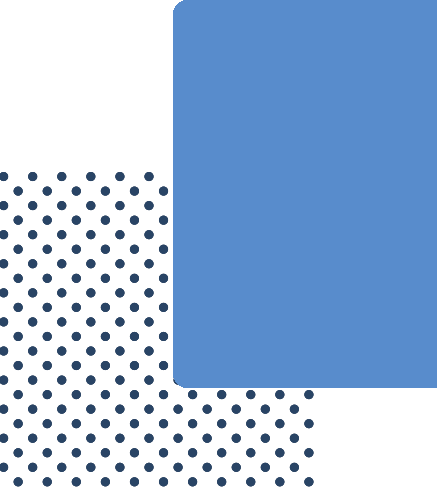
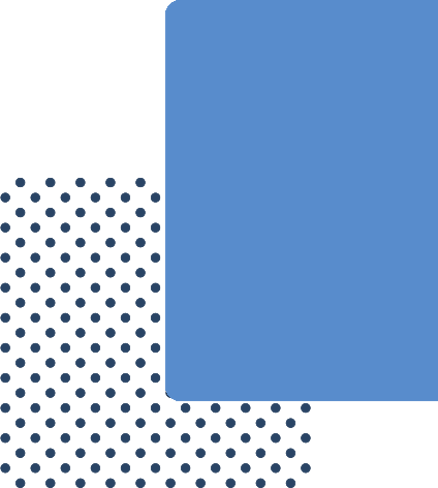
Project complete alfa 1.9

Changed region(s): [[0.0, 0.0, 1.0, 1.0], [0.0, 0.8932, 0.0297, 0.924]]

diff --git a/src/App.css b/src/App.css
@@ -79,7 +79,7 @@ body{
   font-size: 18px;
   font-family: 'the bold font';
   color: var(--dark-blue);
-  min-width: 145px;
+  min-width: 150px;
 }
 .topBar__logo{
   display: none;
@@ -137,23 +137,19 @@ body{
   color: var(--orange);
   position: relative;
 }
-.mobile-header::after{
-  content: '';
-  position: absolute;
+.cicle{
   width: 20px;
   height: 20px;
   border-radius: 50%;
   background: var(--dark-blue);
-  left:50%;
-  top: 35px;
-  transform: translateX(-50%);
+  margin: 0 auto;
 }
 
 /* THEMES */
 
 .themes{
   font-family: 'Intervogue soft regular';
-  margin: 40px 0 0 0;
+  margin: 15px 0 0 0;
 }
 .theme p, .themes__heading-mobile{
   padding: 0 15px;
@@ -162,6 +158,9 @@ body{
   display: grid;
   grid-template-columns: 50% 50%;
   margin: 0 0 50px 0;
+}
+.theme:nth-of-type(even) .theme__name-mobile{
+  color: var(--blue)
 }
 .theme:nth-of-type(4){
   margin: 0 0 20px 0;
@@ -431,7 +430,7 @@ path{
 }
 
 @media screen and (min-width: 1000px) {
-  .mobile-header, .themes__heading-mobile, .topBar__logo-mobile{
+  .mobile-header, .themes__heading-mobile, .topBar__logo-mobile, .cicle{
     display: none;
   }
   .topBar-container{
@@ -578,7 +577,7 @@ path{
     display: block;
     position: absolute;
     right: 0;
-    top: -51px;
+    top: -32px;
     width: 164px;
   }
   .suprise__img img{
@@ -743,6 +742,7 @@ path{
   }
   .suprise__img {
     width: 270px;
+    top: -62px
   }
 }
 @media screen and (min-width: 1340px){

diff --git a/src/components/TopBar.js b/src/components/TopBar.js
@@ -45,6 +45,7 @@ export default function TopBar() {
             </div>
         </div>
         <h2 className="mobile-header">Wszystko zaczyna się bowiem od Ciebie.</h2>
+        <div className="cicle"></div>
     </div>
     <div className='topBar__down'>
         <div className="down__img"><img src={DotsTopBar} alt="Ozdobne kształty"/></div>
